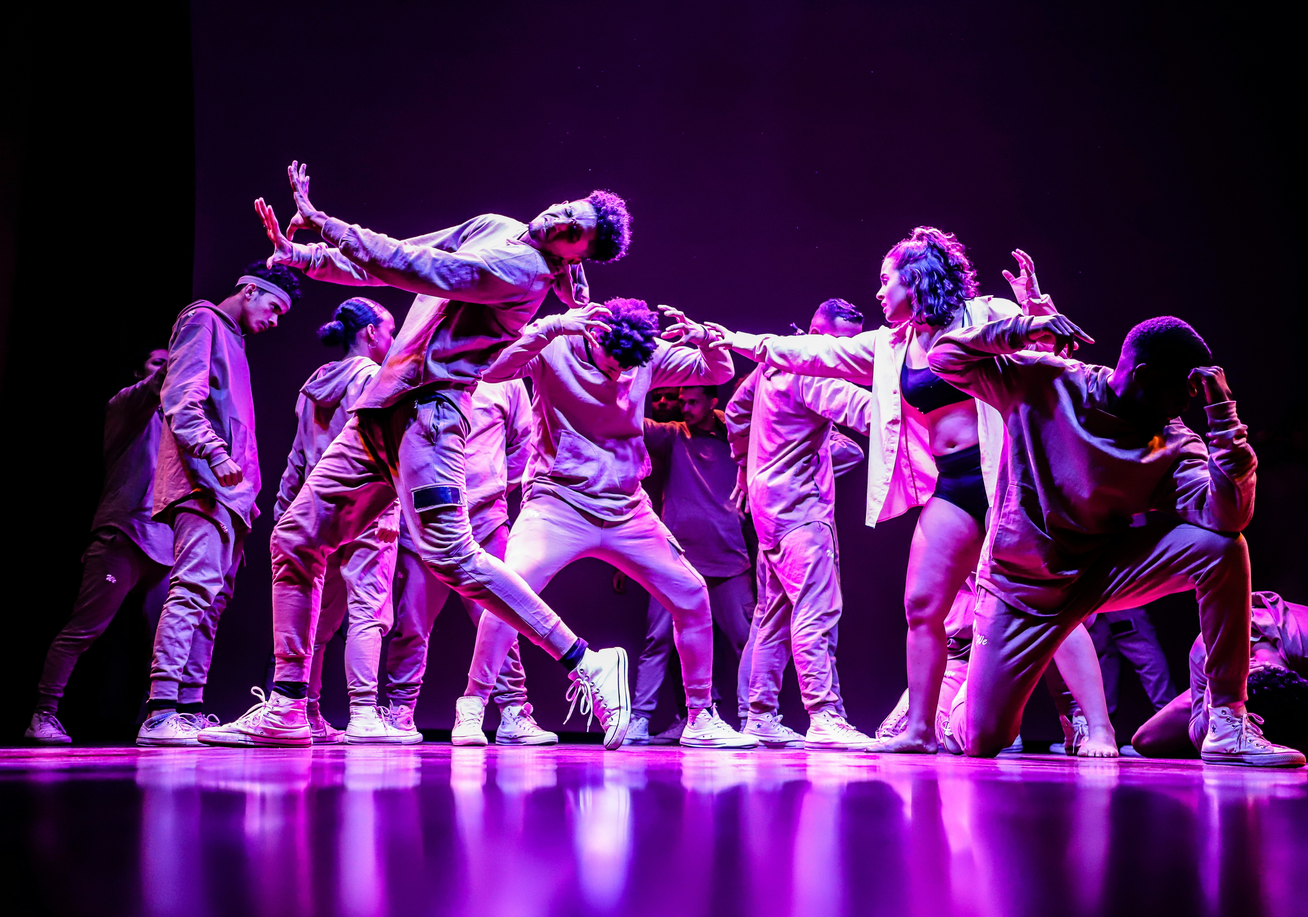
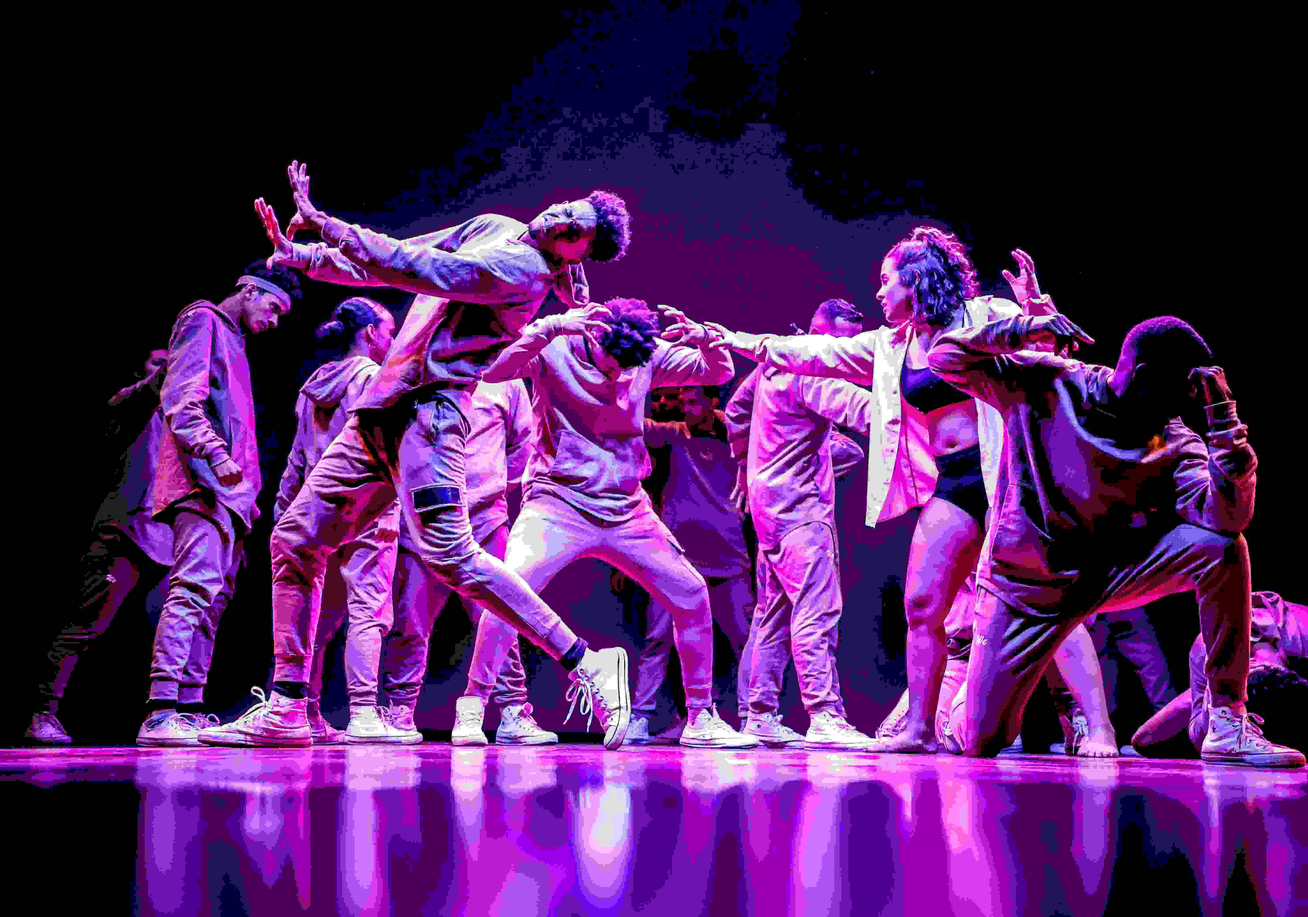
Added new text and div and image on events page and used css for styling my text and images

diff --git a/events.html b/events.html
@@ -31,10 +31,21 @@
 
 
 <div class="events-image">
-    <img src="images/acting-2.jpg.jpg" alt="Image Of Actors On Stage Practicing">
+    <img src="images/acting-8.jpg.jpg" alt="Image Of Actors Dressed In Animal Costumes Performing">
 </div>
-<p>Photo by Hamish Kale on Unsplash</p>
-<p><Performing A Play</p>
+
+<div class="events-attribution">
+    <p>Photo by Debra Brewster on Unsplash</p>
+</div>
+
+<div class="events-text">
+    <p><b>Every</b> Friday we host events</p>
+</div>
+
+<div class="events-image">
+    <img src="images/acting-9.jpg.jpg" alt="Image Of Actors Dressed In Animal Costumes Performing">
+</div>
+
 
 </body>
 

diff --git a/styles.css b/styles.css
@@ -77,7 +77,7 @@ img {
 .events-image {
     display: flex;
     justify-content: center;
-    flex-direction: column;
+    align-items: center;
 
 }
 
@@ -88,6 +88,22 @@ img {
     border-radius: 0% !important;
     border: 5px solid #CFBA2B;
 
+}
+
+.events-text {
+    display: flex;
+    justify-content: center;
+    align-items: center;
+    flex-direction: column;
+    font-size: x-large;
+}
+
+.events-attribution {
+    display: flex;
+    justify-content: center;
+    align-items: center;
+    flex-direction: column;
+    font-size: medium;
 }
 
 body {
